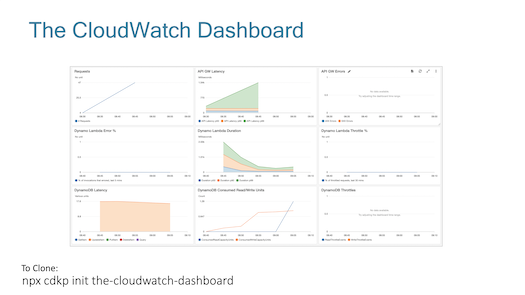
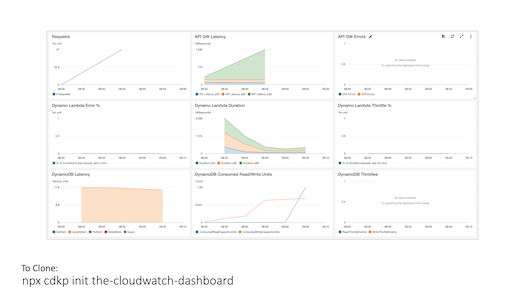
remove name from image

diff --git a/README.md b/README.md
@@ -96,7 +96,7 @@ npx cdk deploy
   #### [The CloudWatch Dashboard](/the-cloudwatch-dashboard/README.md)  
   Build and deploy a well architected CloudWatch dashboard with alerts for the simple webservice pattern
 
-  ![Architecture](the-cloudwatch-dashboard/img/arch.png)
+  ![Architecture](the-cloudwatch-dashboard/img/arch2.png)
 
   <br /><hr /><br />
 
@@ -338,7 +338,7 @@ npx cdk deploy
   #### [The CloudWatch Dashboard](/the-cloudwatch-dashboard/README.md)  
   Build and deploy a well architected CloudWatch dashboard with alerts for the simple webservice pattern
 
-  ![Architecture](the-cloudwatch-dashboard/img/arch.png)
+  ![Architecture](the-cloudwatch-dashboard/img/arch2.png)
 
   #### [The Destined Lambda](/the-destined-lambda/README.md)
   This is a stock implementation of Lambda Destinations with Amazon EventBridge
